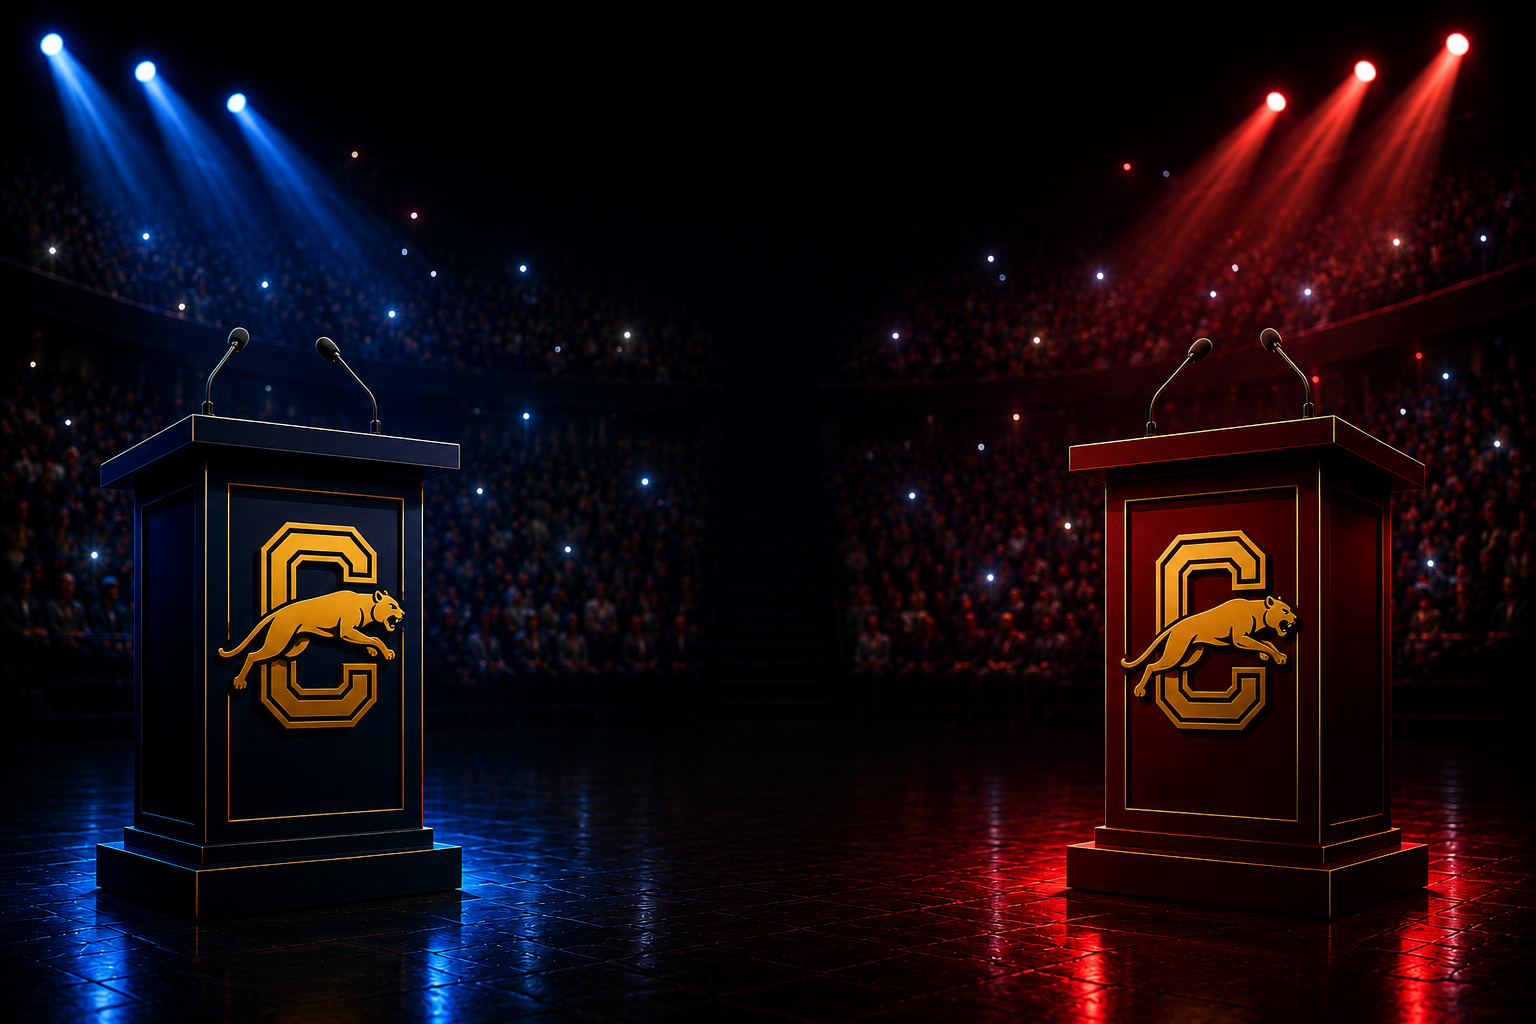
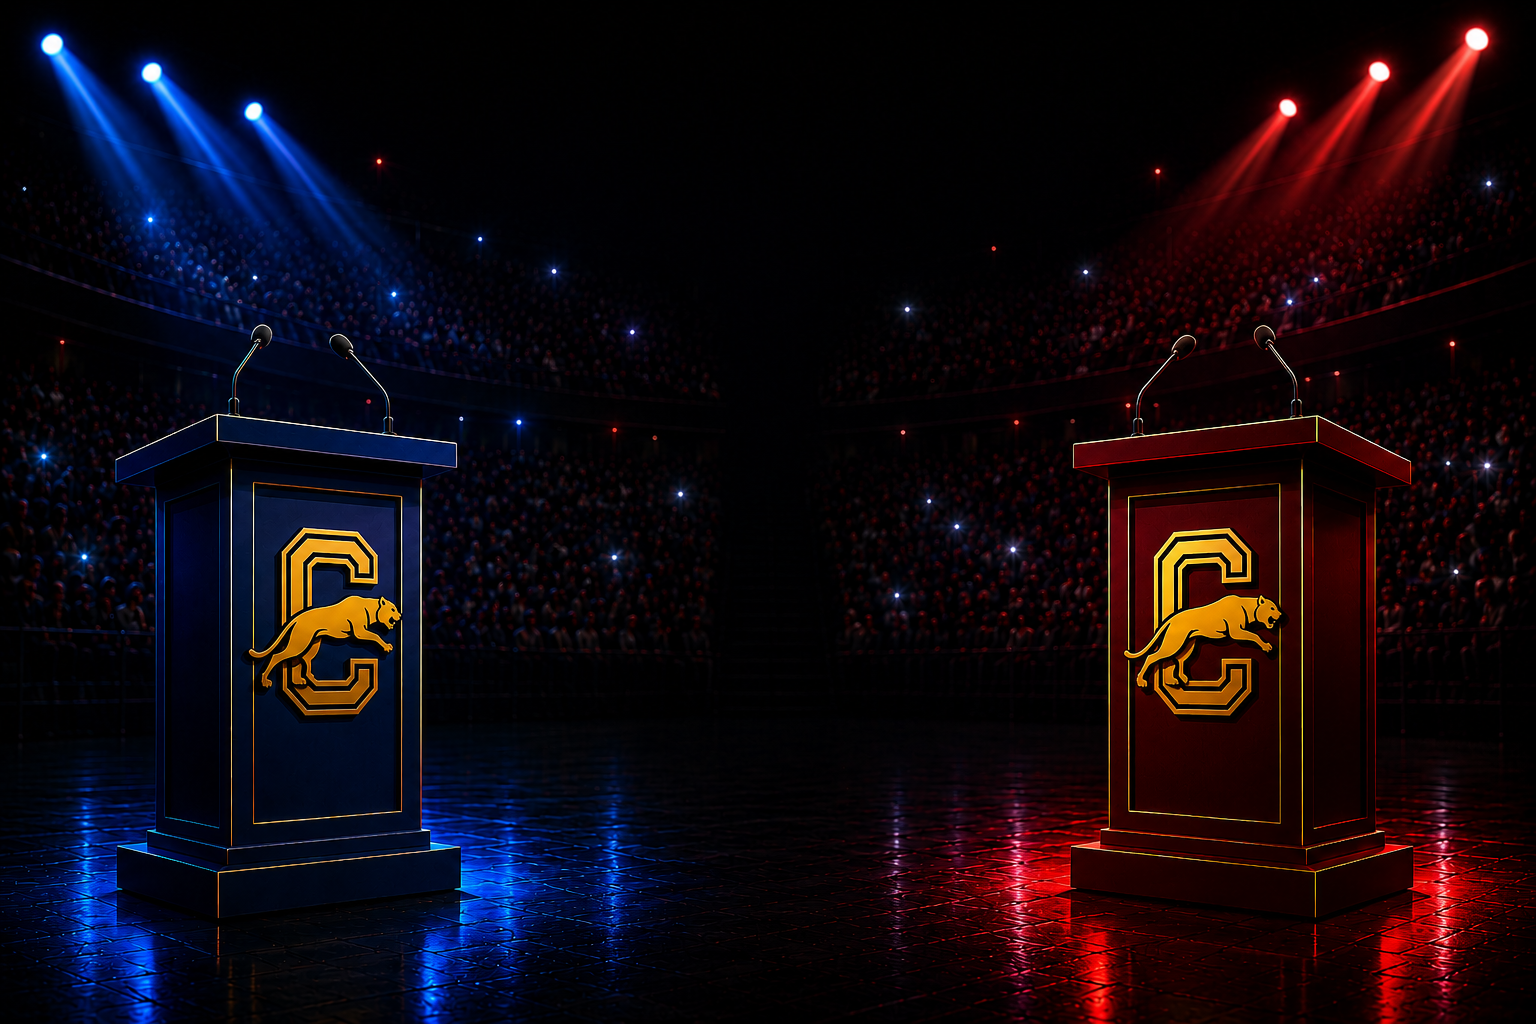
Update hero background image and versioning
Replaces the existing hero background image with a new one and updates CSS cache-busting version numbers across multiple HTML and CSS files.

Replit-Commit-Author: Agent
Replit-Commit-Session-Id: 97879796-538e-456c-bed7-39c3eaf26ed0
Replit-Commit-Checkpoint-Type: full_checkpoint
Replit-Commit-Event-Id: 1b1f5653-e455-465d-91fe-d9f4114b2f99
Replit-Commit-Screenshot-Url: https://storage.googleapis.com/screenshot-production-us-central1/0223cfa2-1785-49db-89a6-5d96e2740ac3/97879796-538e-456c-bed7-39c3eaf26ed0/g4IbRu2
Replit-Helium-Checkpoint-Created: true

diff --git a/css/main.css b/css/main.css
@@ -159,7 +159,7 @@ a { text-decoration: none; color: inherit; }
   content: '';
   position: absolute;
   inset: 0;
-  background: url('../images/hero-stage.png?v=2') center/cover no-repeat;
+  background: url('../images/hero-stage.png?v=3') center/cover no-repeat;
   z-index: 0;
 }
 
@@ -1008,7 +1008,7 @@ a { text-decoration: none; color: inherit; }
         rgba(4,8,22,0.58) 68%,
         rgba(4,8,22,0.75) 82%,
         rgba(4,8,22,0.68) 100%),
-      url('../images/hero-stage-mobile.png?v=2');
+      url('../images/hero-stage-mobile.png?v=3');
   }
 
   .hero-beams { display: none; }
@@ -1076,7 +1076,7 @@ a { text-decoration: none; color: inherit; }
         rgba(4,8,22,0.55) 66%,
         rgba(4,8,22,0.72) 80%,
         rgba(4,8,22,0.65) 100%),
-      url('../images/hero-stage.png?v=2');
+      url('../images/hero-stage.png?v=3');
   }
   .hero-beams { display: none; }
   .home-hero  {

diff --git a/tournaments.html b/tournaments.html
@@ -8,7 +8,7 @@
   <link rel="preconnect" href="https://fonts.googleapis.com"/>
   <link rel="preconnect" href="https://fonts.gstatic.com" crossorigin/>
   <link href="https://fonts.googleapis.com/css2?family=Cormorant+Garamond:ital,wght@0,400;0,600;0,700;1,400&family=Josefin+Sans:wght@300;400;600;700&display=swap" rel="stylesheet"/>
-  <link rel="stylesheet" href="css/main.css?v=2"/>
+  <link rel="stylesheet" href="css/main.css?v=3"/>
   <link rel="stylesheet" href="css/dome-nav.css"/>
   <style>
     .calendar-grid { display:flex; flex-direction:column; gap:0; }

diff --git a/blog.html b/blog.html
@@ -8,7 +8,7 @@
   <link rel="preconnect" href="https://fonts.googleapis.com"/>
   <link rel="preconnect" href="https://fonts.gstatic.com" crossorigin/>
   <link href="https://fonts.googleapis.com/css2?family=Cormorant+Garamond:ital,wght@0,400;0,600;0,700;1,400&family=Josefin+Sans:wght@300;400;600;700&display=swap" rel="stylesheet"/>
-  <link rel="stylesheet" href="css/main.css?v=2"/>
+  <link rel="stylesheet" href="css/main.css?v=3"/>
   <link rel="stylesheet" href="css/dome-nav.css"/>
   <style>
     .blog-hero-post {

diff --git a/resources.html b/resources.html
@@ -8,7 +8,7 @@
   <link rel="preconnect" href="https://fonts.googleapis.com"/>
   <link rel="preconnect" href="https://fonts.gstatic.com" crossorigin/>
   <link href="https://fonts.googleapis.com/css2?family=Cormorant+Garamond:ital,wght@0,400;0,600;0,700;1,400&family=Josefin+Sans:wght@300;400;600;700&display=swap" rel="stylesheet"/>
-  <link rel="stylesheet" href="css/main.css?v=2"/>
+  <link rel="stylesheet" href="css/main.css?v=3"/>
   <link rel="stylesheet" href="css/dome-nav.css"/>
   <style>
     .resource-card {

diff --git a/members.html b/members.html
@@ -8,7 +8,7 @@
   <link rel="preconnect" href="https://fonts.googleapis.com"/>
   <link rel="preconnect" href="https://fonts.gstatic.com" crossorigin/>
   <link href="https://fonts.googleapis.com/css2?family=Cormorant+Garamond:ital,wght@0,400;0,600;0,700;1,400&family=Josefin+Sans:wght@300;400;600;700&display=swap" rel="stylesheet"/>
-  <link rel="stylesheet" href="css/main.css?v=2"/>
+  <link rel="stylesheet" href="css/main.css?v=3"/>
   <link rel="stylesheet" href="css/dome-nav.css"/>
   <style>
     .members-page {

diff --git a/awards.html b/awards.html
@@ -8,7 +8,7 @@
   <link rel="preconnect" href="https://fonts.googleapis.com"/>
   <link rel="preconnect" href="https://fonts.gstatic.com" crossorigin/>
   <link href="https://fonts.googleapis.com/css2?family=Cormorant+Garamond:ital,wght@0,400;0,600;0,700;1,400&family=Josefin+Sans:wght@300;400;600;700&display=swap" rel="stylesheet"/>
-  <link rel="stylesheet" href="css/main.css?v=2"/>
+  <link rel="stylesheet" href="css/main.css?v=3"/>
   <link rel="stylesheet" href="css/dome-nav.css"/>
   <style>
     .trophy-card {

diff --git a/about.html b/about.html
@@ -8,7 +8,7 @@
   <link rel="preconnect" href="https://fonts.googleapis.com"/>
   <link rel="preconnect" href="https://fonts.gstatic.com" crossorigin/>
   <link href="https://fonts.googleapis.com/css2?family=Cormorant+Garamond:ital,wght@0,400;0,600;0,700;1,400&family=Josefin+Sans:wght@300;400;600;700&display=swap" rel="stylesheet"/>
-  <link rel="stylesheet" href="css/main.css?v=2"/>
+  <link rel="stylesheet" href="css/main.css?v=3"/>
   <link rel="stylesheet" href="css/dome-nav.css"/>
   <style>
     .value-card {

diff --git a/gallery.html b/gallery.html
@@ -8,7 +8,7 @@
   <link rel="preconnect" href="https://fonts.googleapis.com"/>
   <link rel="preconnect" href="https://fonts.gstatic.com" crossorigin/>
   <link href="https://fonts.googleapis.com/css2?family=Cormorant+Garamond:ital,wght@0,400;0,600;0,700;1,400&family=Josefin+Sans:wght@300;400;600;700&display=swap" rel="stylesheet"/>
-  <link rel="stylesheet" href="css/main.css?v=2"/>
+  <link rel="stylesheet" href="css/main.css?v=3"/>
   <link rel="stylesheet" href="css/dome-nav.css"/>
   <style>
     .filter-bar {

diff --git a/index.html b/index.html
@@ -8,7 +8,7 @@
   <link rel="preconnect" href="https://fonts.googleapis.com"/>
   <link rel="preconnect" href="https://fonts.gstatic.com" crossorigin/>
   <link href="https://fonts.googleapis.com/css2?family=Cormorant+Garamond:ital,wght@0,400;0,600;0,700;1,400&family=Josefin+Sans:wght@300;400;600;700&display=swap" rel="stylesheet"/>
-  <link rel="stylesheet" href="css/main.css?v=2"/>
+  <link rel="stylesheet" href="css/main.css?v=3"/>
   <link rel="stylesheet" href="css/dome-nav.css"/>
 </head>
 <body>
